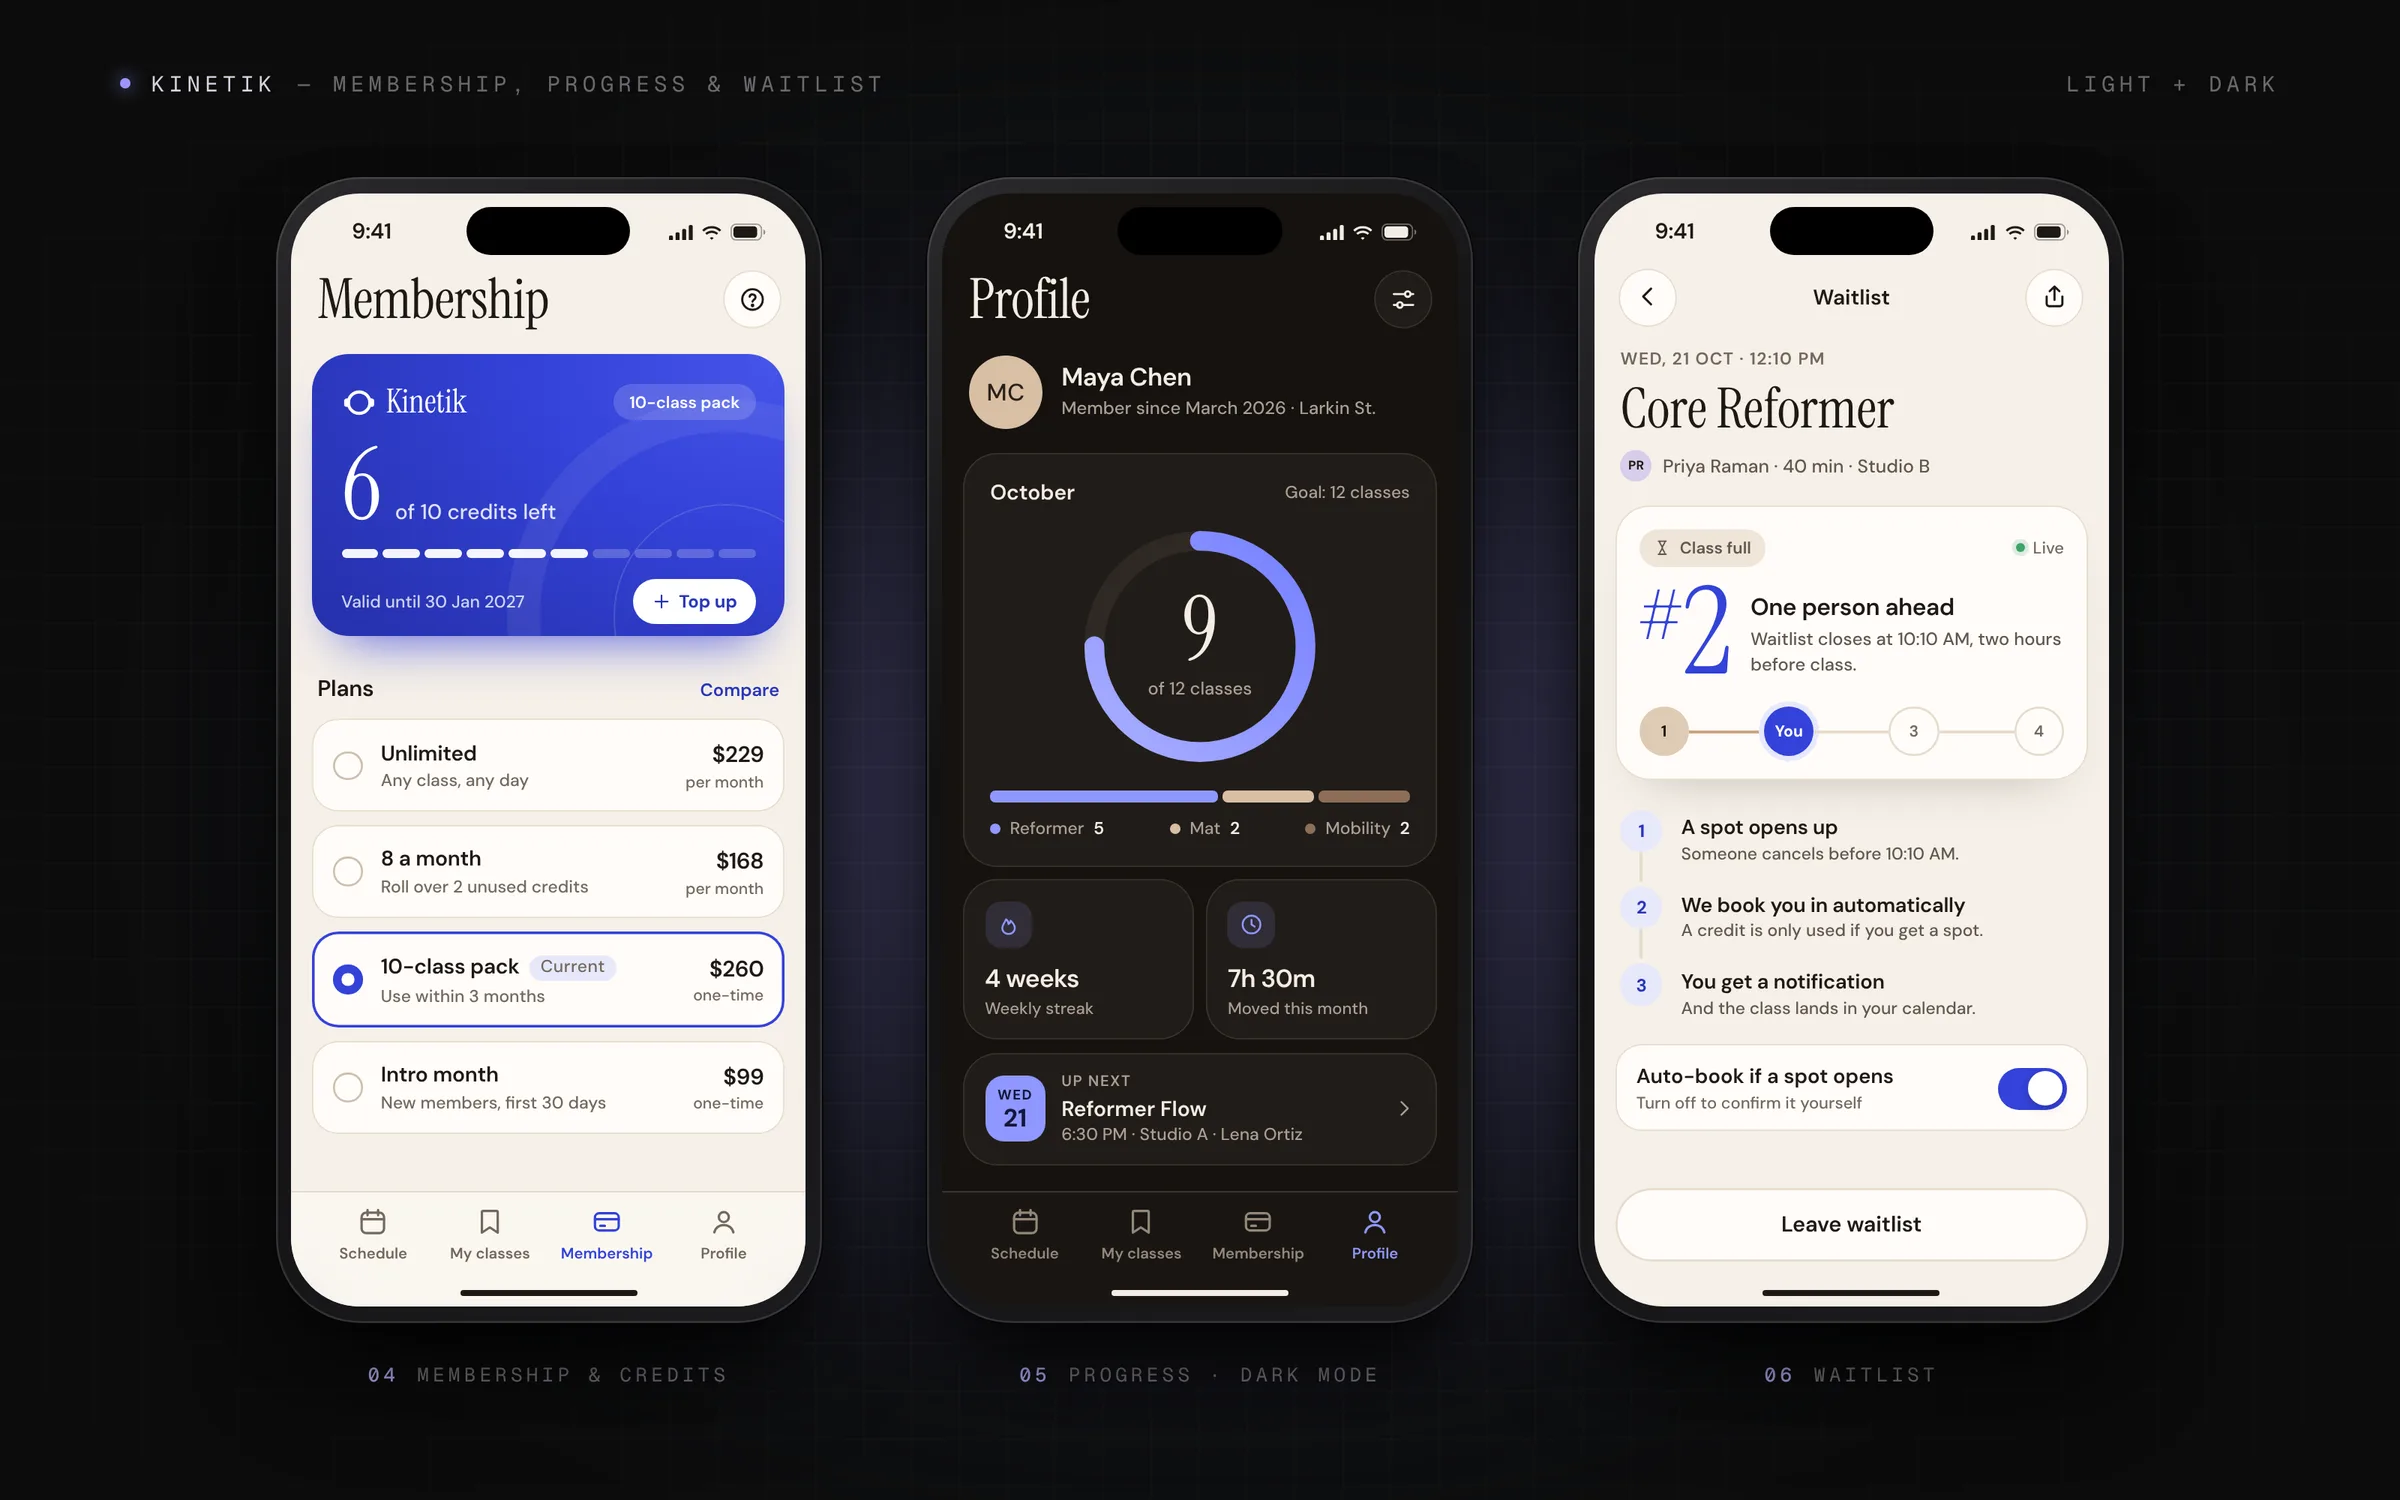
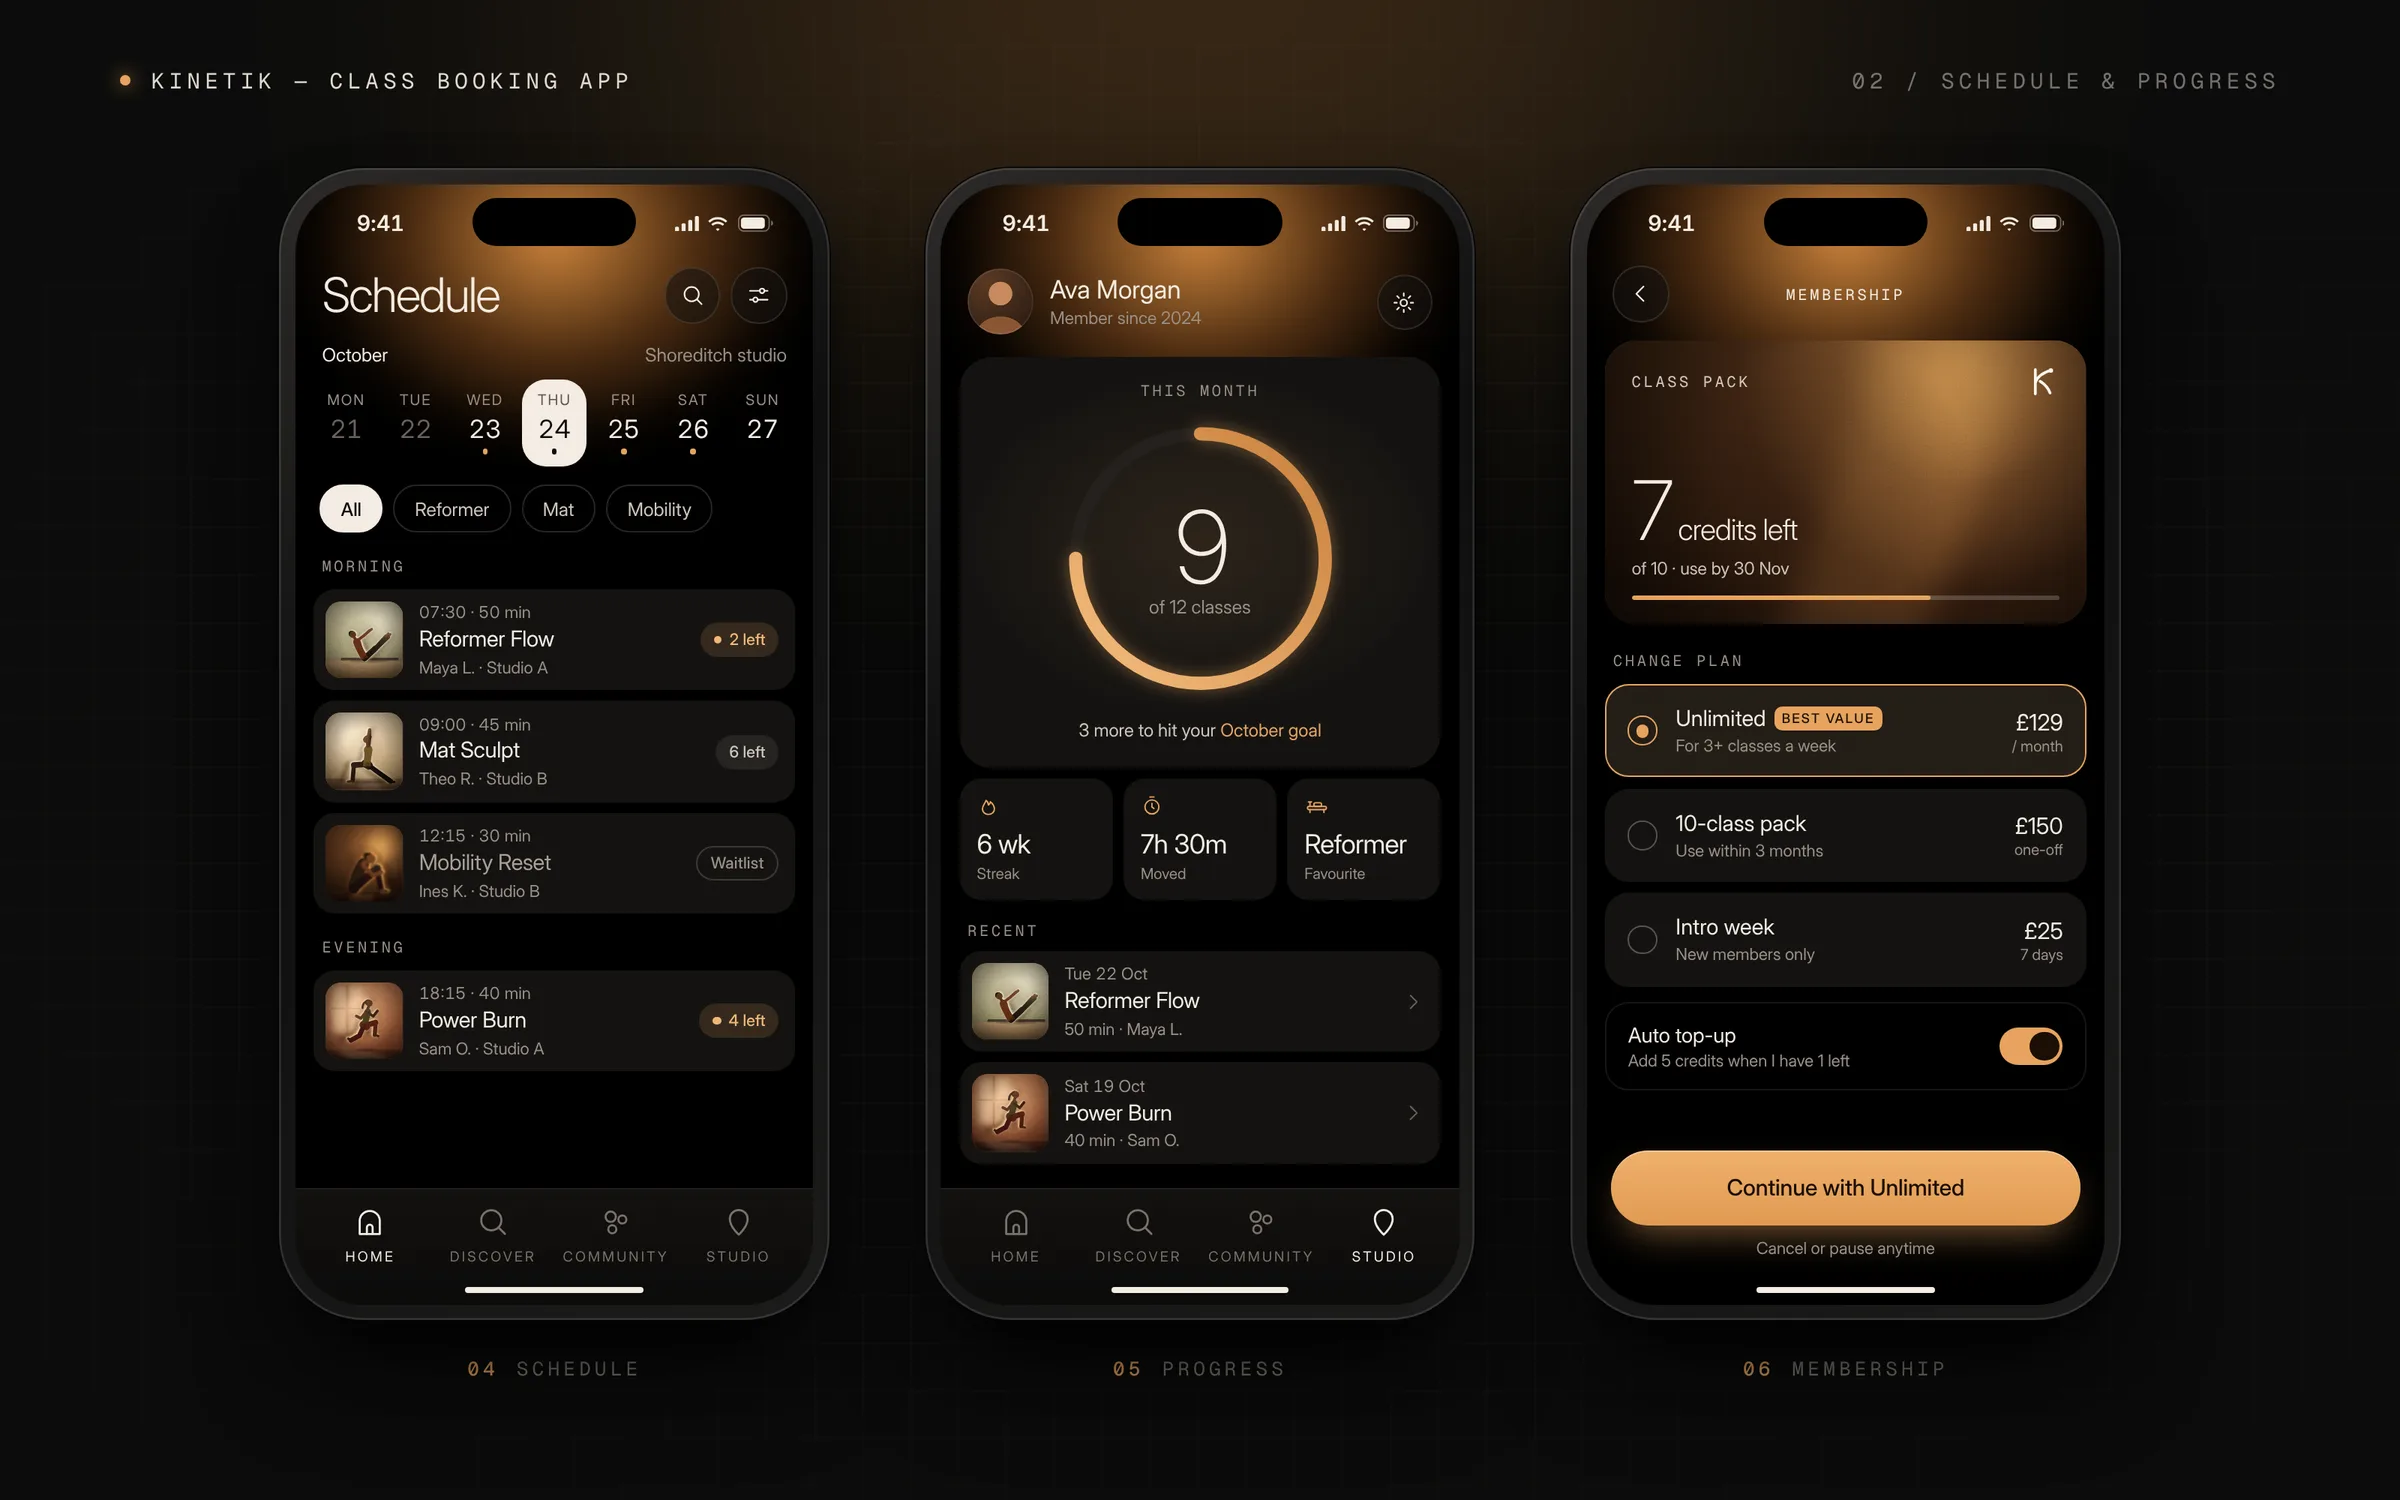
Redesign Kinetik app in a dark, photo-led style
Claude-Session: https://claude.ai/code/session_015YwbfjFcxjUedsHH96HC6A

diff --git a/src/content/projects/kinetik-studio.md b/src/content/projects/kinetik-studio.md
@@ -9,12 +9,12 @@ concept: true
 featured: true
 order: 12
 cover: ./images/concept-kinetik-studio-cover.webp
-coverAlt: "Three phone screens of the Kinetik booking app: a weekly class schedule with spots left, the Reformer Flow class detail with a Book class button, and a booking confirmation with Add to calendar."
+coverAlt: "Three phone screens of the Kinetik app on black with a warm amber glow: a Discover screen with Yoga, Pilates, HIIT and Recover photo tiles, the Reformer Flow class page with a Book class button, and a You're booked confirmation with Add to calendar."
 gallery:
   - src: ./images/concept-kinetik-studio-1.webp
-    alt: "Three phone screens: membership with a 10-class pack and plan options, a dark-mode profile with a ring showing classes attended this month, and a waitlist screen showing the member is second in line."
+    alt: "Three dark phone screens: a weekly schedule with spots left on each class, a progress screen with an amber ring showing 9 of 12 classes this month, and a membership screen with credits left and plan options."
   - src: ./images/concept-kinetik-studio-2.webp
-    alt: "Kinetik design system board with the logo and app icons, a sand, clay and blue palette with contrast checks, the type scale, buttons and status pills, the class card in light and dark, and custom icons."
+    alt: "Kinetik design system board with the logo and app icons, a black, bone and amber palette with sand, terracotta and olive tile tones, the type scale, the four photo tiles, buttons, rows and line icons."
 ---
 
 ## The brief
@@ -23,10 +23,10 @@ Kinetik is a boutique pilates and mobility studio. Small studios often take book
 
 ## My approach
 
-- **Calm, not clinical:** soft sand and clay neutrals with one bright blue for anything you can tap.
-- **Spots left at a glance:** every class card shows how many spots are left before you open it.
-- **Boutique, not gym chain:** an elegant serif for headlines next to a clean sans for the details.
-- **Light and dark mode:** both built from the same set of colours.
+- **Dark and calm:** a pure black UI with a soft amber glow at the top, so the app feels like a dimmed studio.
+- **Photo-led:** big, warm photo tiles for Yoga, Pilates, HIIT and Recover do the talking.
+- **Quiet type:** one light sans for everything, with small uppercase labels for lists.
+- **One warm accent:** amber is kept for booking, spots left and progress.
 
 ## What's inside
 
